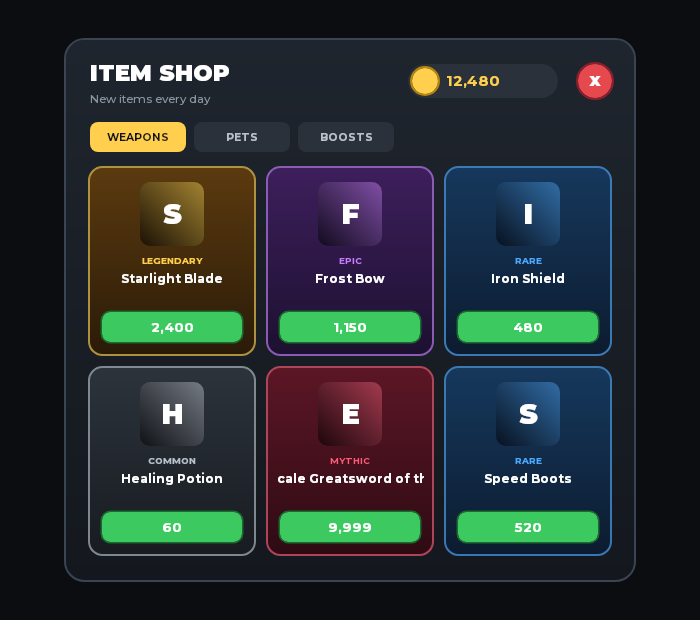
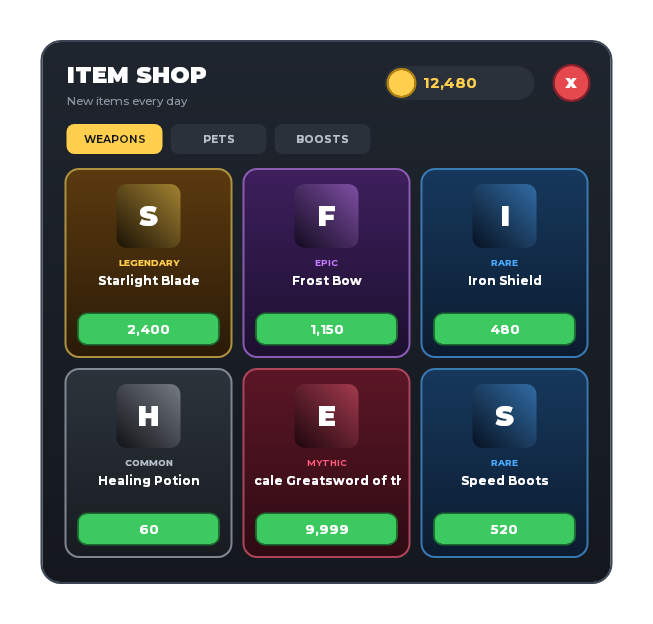
Prepare 0.6.0: docs pass, fresh-install fix, new README images
- Version 0.6.0. CHANGELOG: 0.6.0 with a "when upgrading" list; 0.5.0 (never
  released on its own) ships in it.
- Fresh-machine check (new venv, empty cache and browser folder, rhr setup, doctor,
  2D and 3D renders) found that a relative --out was written in the warm worker's
  folder: output paths are made absolute before the worker sees them. Regression
  check in tests/test_kept_page.py.
- Effects (particles, Beams, Trails, Highlights) are no longer labelled experimental
  in scene-dump; README, AGENTS.md and known-approximations brought up to date
  (commands table, Highlights, warm worker, rhr cache, headless shell, smoke tests).
- README images: a 3D build (Roblox's game template), the shop UI and an effect
  (Jaxelos's open-source star VFX), with a caption crediting both.

diff --git a/src/rhr/scene_dump.py b/src/rhr/scene_dump.py
@@ -507,12 +507,13 @@ def build_scene_dump(
 
 
 # Rough approximations (docs/GOAL.md): present in the render, but not to be trusted
-# the way Part geometry, cameras and UI layout are. Meshes, unions, Sky and terrain
-# are not listed: they are compared with Studio, and a missing mesh or union is a
-# geometry fallback instead.
+# the way Part geometry, cameras and UI layout are. Meshes, unions, Sky, terrain and
+# effects (particles, Beams, Trails, Highlights) are not listed: they are compared with
+# Studio, a missing mesh or union is a geometry fallback instead, and effects report
+# their own notes (what was drawn, and what a script plays).
 EXPERIMENTAL_CLASSES = (
-    "Atmosphere", "Beam", "BloomEffect", "ColorCorrectionEffect", "Decal", "Highlight", "ParticleEmitter",
-    "PointLight", "SpotLight", "SurfaceLight", "Texture", "Trail",
+    "Atmosphere", "BloomEffect", "ColorCorrectionEffect", "Decal",
+    "PointLight", "SpotLight", "SurfaceLight", "Texture",
 )
 # Present in Lighting but not drawn at all.
 NOT_DRAWN_CLASSES = ("Clouds", "SunRaysEffect", "DepthOfFieldEffect", "BlurEffect")

diff --git a/tests/test_kept_page.py b/tests/test_kept_page.py
@@ -57,6 +57,11 @@ def main() -> None:
                     f"{name}: not drawn on the kept page\n{proc.stderr[-800:]}"
                 with Image.open(fresh[name]).convert("RGBA") as a, Image.open(out).convert("RGBA") as b:
                     assert ImageChops.difference(a, b).getbbox() is None, f"{name} (render {i}) differs from a fresh page"
+            # A relative --out is relative to the caller, not to the worker's own folder.
+            subprocess.run([*RHR, "scene", *SCENES[0][1], "--viewport", "400x300", "--out", "relative.png"],
+                           cwd=tmp, capture_output=True, text=True, timeout=180, check=True,
+                           env=dict(os.environ, PYTHONPATH=str(ROOT / "src")))
+            assert (tmp / "relative.png").is_file(), "a relative --out was not written next to the caller"
         finally:
             run("browser", "stop")
 

diff --git a/tests/test_scene_beam.py b/tests/test_scene_beam.py
@@ -145,7 +145,8 @@ def main() -> None:
         assert dump["unsupportedVisualClasses"] == {}
         assert dump["beams"][0]["attachment0"] == "Workspace/P0/A0"
         assert dump["beams"][0]["attachment1"] == "Workspace/P1/A1"
-        assert dump["experimental"].get("Beam") == 1, dump["experimental"]
+        # Effects are no longer "experimental": they were checked against Studio.
+        assert "Beam" not in dump["experimental"], dump["experimental"]
 
         # CurveSize control points use each attachment's local X axis. The
         # pre-fix cylinder path renders this curved and straight case identically.

diff --git a/src/rhr/scene.py b/src/rhr/scene.py
@@ -317,6 +317,8 @@ def _render_browser(
     notes_out: list[str] | None = None,
 ) -> tuple[int, int]:
     """Render one local browser page and return its verified PNG dimensions."""
+    # Absolute: the warm worker writes the file, and its working folder is not ours.
+    out = Path(out).resolve()
     out.parent.mkdir(parents=True, exist_ok=True)
     handler = type(
         "RHRSceneHandler",

diff --git a/README.md b/README.md
@@ -8,13 +8,16 @@ their work. It also works for people who just want a quick look from the command
 line or in CI. No GPU or display is needed.
 
 <p align="center">
-  <img src="docs/images/shop.png" width="46%" alt="A shop ScreenGui rendered by rhr: item cards in a grid with gradients, rounded corners and price buttons">
-  <img src="docs/images/tower.png" width="52%" alt="A small 3D shop building on a grass Baseplate, with a sign, a lamp and a name tag, rendered by rhr">
+  <img src="docs/images/build.png" width="98%" alt="Roblox's game template rendered by rhr scene: a pastel tower of platforms and stairs with shadows, plants, a floating sphere and cube, under a cloudy sky">
+</p>
+<p align="center">
+  <img src="docs/images/shop.png" width="40%" alt="A shop ScreenGui rendered by rhr render: item cards in a grid with rarity colours, rounded corners and price buttons">
+  <img src="docs/images/vfx.png" width="57%" alt="Three glowing shooting stars, orange, green and violet, with wavy tails, rendered by rhr scene from a particle and beam effect">
 </p>
 
-<p align="center"><sub>Both images come from <code>examples/</code>, rendered by <code>rhr render</code> and <code>rhr scene --view iso</code>.</sub></p>
+<p align="center"><sub>A 3D build (<code>rhr scene</code> on Roblox's game template), a UI (<code>rhr render examples/shop.rbxmx</code>) and an effect frozen at its fullest moment (<code>rhr scene</code> on Jaxelos's open-source star VFX).</sub></p>
 
-> **Status: v0.5, an early alpha.** The UI layout numbers are solid: they match
+> **Status: v0.6, an early alpha.** The UI layout numbers are solid: they match
 > Studio within 2 px on every test place. The pictures are *previews*: close enough
 > to spot mistakes, not a copy of Studio's renderer. Anything RHR can't draw
 > faithfully, it says so in its output instead of guessing quietly. See
@@ -72,7 +75,10 @@ The shop has one deliberate mistake, and `rhr check` finds it:
 | `rhr compare a.png b.png` | How much changed between two renders, to tell a geometry change from a colour change |
 | `rhr ir <file>` | The parsed file as JSON, including properties that could not be read |
 | `rhr fetch <file>` | Download the images, meshes, unions and Roblox material textures a model uses into the local cache, as your Roblox Studio user. `scene` and `preview` do this themselves for whatever they are missing |
+| `rhr particles <file>` | A contact sheet of ParticleEmitters over time (experimental) |
 | `rhr setup` / `rhr doctor` | Install the external tools / check them |
+| `rhr cache` | What the cache holds (`--clear` to empty part of it) |
+| `rhr browser status/start/stop` | The warm 3D worker (it starts and stops by itself; this is for checking) |
 
 Every JSON output carries a `schema` name (`rhr.layout/1`, `rhr.check/1`, ...), so a
 change in shape is never silent. A Rojo project works anywhere a file does: pass the
@@ -84,6 +90,9 @@ Most VFX are played by a script; RHR runs no scripts, but reads the widely used
 `EmitCount` / `EmitDelay` / `EmitDuration` attributes and plays the effect itself,
 showing its fullest moment (`--effect-time T` for another, `--no-effects` to leave
 them out). Emitters a script plays without those attributes are listed, not guessed.
+Highlights (fill and outline) are drawn too. How particles blend and how bright they
+look is fitted to measurements in Studio; see
+[what is approximated](docs/known-approximations.md#effects).
 
 **Experimental** (rough sketches, and labelled as such in the output): local lights,
 Decals and Textures, and `rhr particles` (a contact sheet over time).
@@ -156,7 +165,7 @@ pay that again. `rhr cache` shows what the cache holds (it stays under 2 GB,
 git clone https://github.com/TabooHarmony/roblox-headless-renderer && cd roblox-headless-renderer
 python -m venv .venv && . .venv/bin/activate      # Windows: .venv\Scripts\activate
 pip install -e ".[dev,mcp]" && rhr setup
-python -m pytest                                    # -m "not browser" skips the 3D tests
+python -m pytest                                    # -m smoke: a quick check; -m "not browser": no 3D
 ```
 
 CI runs the suite on Ubuntu, Windows and macOS. [`docs/GOAL.md`](docs/GOAL.md) is the

diff --git a/docs/AGENTS.md b/docs/AGENTS.md
@@ -63,9 +63,9 @@ measured against Studio (tests/studio/):
 What RHR tells you it did not do exactly:
 
 - `scene` / `preview` print a `notes` line: geometry fallbacks (meshes drawn as boxes),
-  unsupported visual classes, missing assets and **experimental** features (Beams,
-  Trails, particles, Atmosphere, lights, decals).
-  Treat experimental output as a rough sketch.
+  unsupported visual classes, missing assets and **experimental** features
+  (Atmosphere, post effects, local lights, decals). Treat experimental output as a
+  rough sketch.
 - `scene-dump` lists the same under `fallbacks`, `unsupportedVisualClasses` and
   `experimental`.
 - RHR expects Roblox Studio installed and signed in on the machine. `render`, `scene`
@@ -75,7 +75,7 @@ What RHR tells you it did not do exactly:
   handled by Lune and sent only to Roblox. `--offline` skips downloading. Without
   Studio, stderr says the preview will look less like Roblox (thumbnails, box
   meshes, look-alike materials).
-- Effects (particles, Beams, Trails) are one still frame: a `note` says how many
+- Effects (particles, Beams, Trails, Highlights) are one still frame: a `note` says how many
   particles were drawn and at which moment of the effect. Effects a script plays are
   played from their `EmitCount` / `EmitDelay` / `EmitDuration` attributes; an emitter
   a script plays without them is named, not drawn. Judge presence, place, size,
@@ -94,7 +94,8 @@ builds or moves at runtime is previewed as saved in the file.
 ## Setup reminders
 
 - `rhr doctor` says whether everything RHR needs is installed; `rhr setup` downloads
-  what is missing (Lune 0.10.5, Rojo 7.7.0, Chromium).
+  what is missing (Lune 0.10.5, Rojo 7.7.0, Chromium's headless shell). `rhr cache`
+  shows or clears the cache.
 - A standard `--view` frames the build, not the Baseplate: a thin ground slab much
   larger than everything else is left out of the framing (still drawn), and a `note`
   line says so. `--focus <path>` frames exactly what you name.

diff --git a/docs/known-approximations.md b/docs/known-approximations.md
@@ -219,6 +219,11 @@ differed from a software one on 0.13% of pixels, by 0.4/255 on average.
 the tests and CI use it. A machine without a usable GPU falls back to software by
 itself.
 
+The first 3D render starts a warm worker (Chromium with the 3D page loaded), which
+later renders reuse; it stops after 10 idle minutes. A render on the kept page is
+pixel for pixel the same as one on a fresh page (tests/test_kept_page.py).
+`RHR_PROFILE=1` prints where a command's time went.
+
 ## In-world UI (BillboardGui, SurfaceGui)
 
 The GUI inside them is drawn by the same engine as screen UI, on the canvas size
@@ -288,9 +293,9 @@ whether it glows; not the exact particles Roblox would draw.
 - **Not applied**: `LightInfluence` (particles are drawn as if it were 0, which most
   VFX use), size and transparency envelopes, `LockedToPart`, wind, `VelocityInheritance`
   (parts do not move in a still frame). Built-in `rbxasset://` particle textures are not
-  read from the Studio install yet; like a texture that could not be downloaded, they
-  are drawn as soft dots, and the output says so. Fire, Smoke, Sparkles and Explosion
-  are not drawn.
+  read from the Studio install yet; like a texture that could not be loaded, those
+  particles are not drawn (as in Studio for a texture it cannot load), and the output
+  names the texture. Fire, Smoke, Sparkles and Explosion are not drawn.
 - **Beam**: curve, widths, segments, colour, texture and `LightEmission` are drawn.
   The texture's vertical axis runs along the beam; `Stretch` repeats it `TextureLength`
   times, `Wrap` every `TextureLength` studs (measured in Studio). Texture motion

diff --git a/CHANGELOG.md b/CHANGELOG.md
@@ -1,6 +1,21 @@
 # Changelog
 
-## Unreleased
+## 0.6.0 (alpha)
+
+0.5.0 was never released on its own; its changes (below) ship in this release too.
+
+### When upgrading
+
+- `scene` and `preview` draw particles by default (`--no-effects` leaves them out);
+  `preview --burst` is gone and `--time` is now `--effect-time` (the old name works).
+- The first 3D render starts a warm browser worker, which stops after 10 idle minutes
+  (`RHR_PERSISTENT_BROWSER=0` turns it off). Its session files moved into the cache.
+- `rhr setup` installs only Chromium's headless shell. An existing full Chromium from
+  Playwright is no longer needed and can be deleted.
+- A model without a Camera is framed as a whole instead of seen from a fixed spot.
+- Particles, Beams, Trails and Highlights are no longer listed as `experimental` in
+  `scene-dump`: they were checked against Studio and report their own notes.
+- A particle texture that cannot be loaded draws nothing (it drew a soft dot).
 
 ### Faster, lighter, more dependable
 
@@ -75,7 +90,7 @@ Atmosphere outside Lighting no longer applies. Known difference: negative
   render blank.
 - `preview --time` and `--burst` are replaced by `--effect-time`; `--time` still works.
 
-## 0.5.0 (alpha)
+## 0.5.0 (alpha, released as part of 0.6.0)
 
 ### Lighting parity (fitted to Studio)
 
